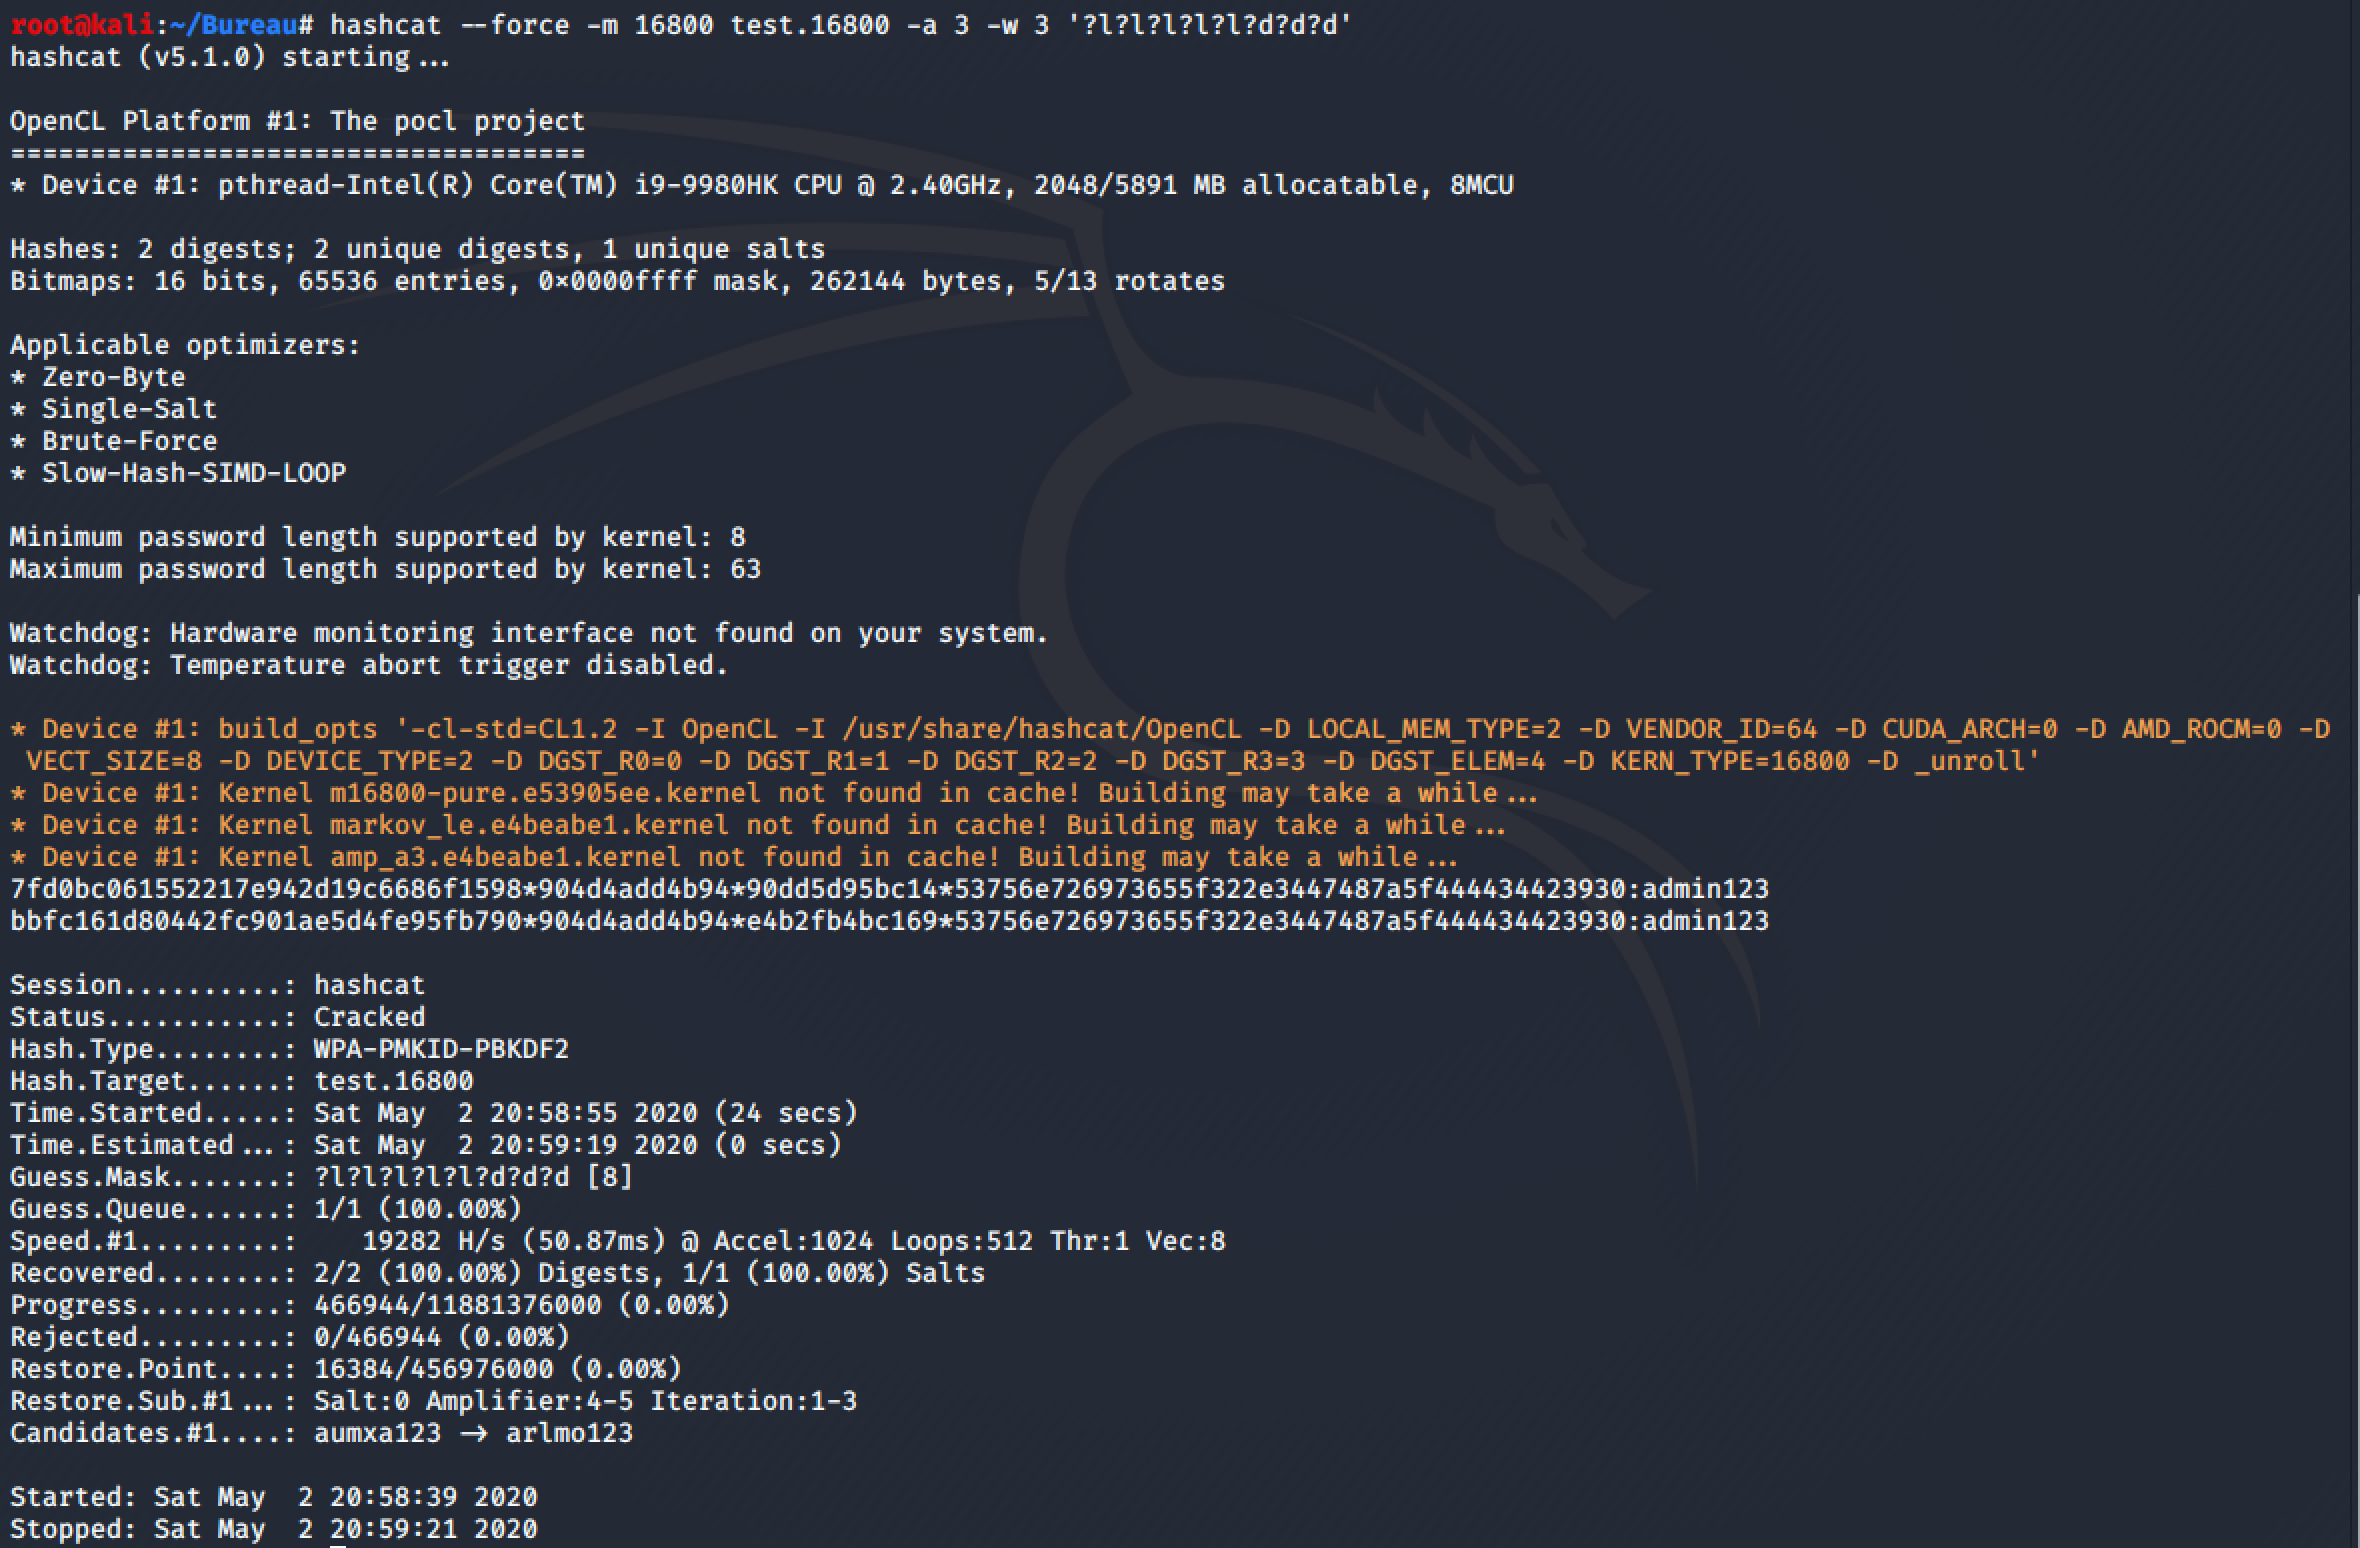
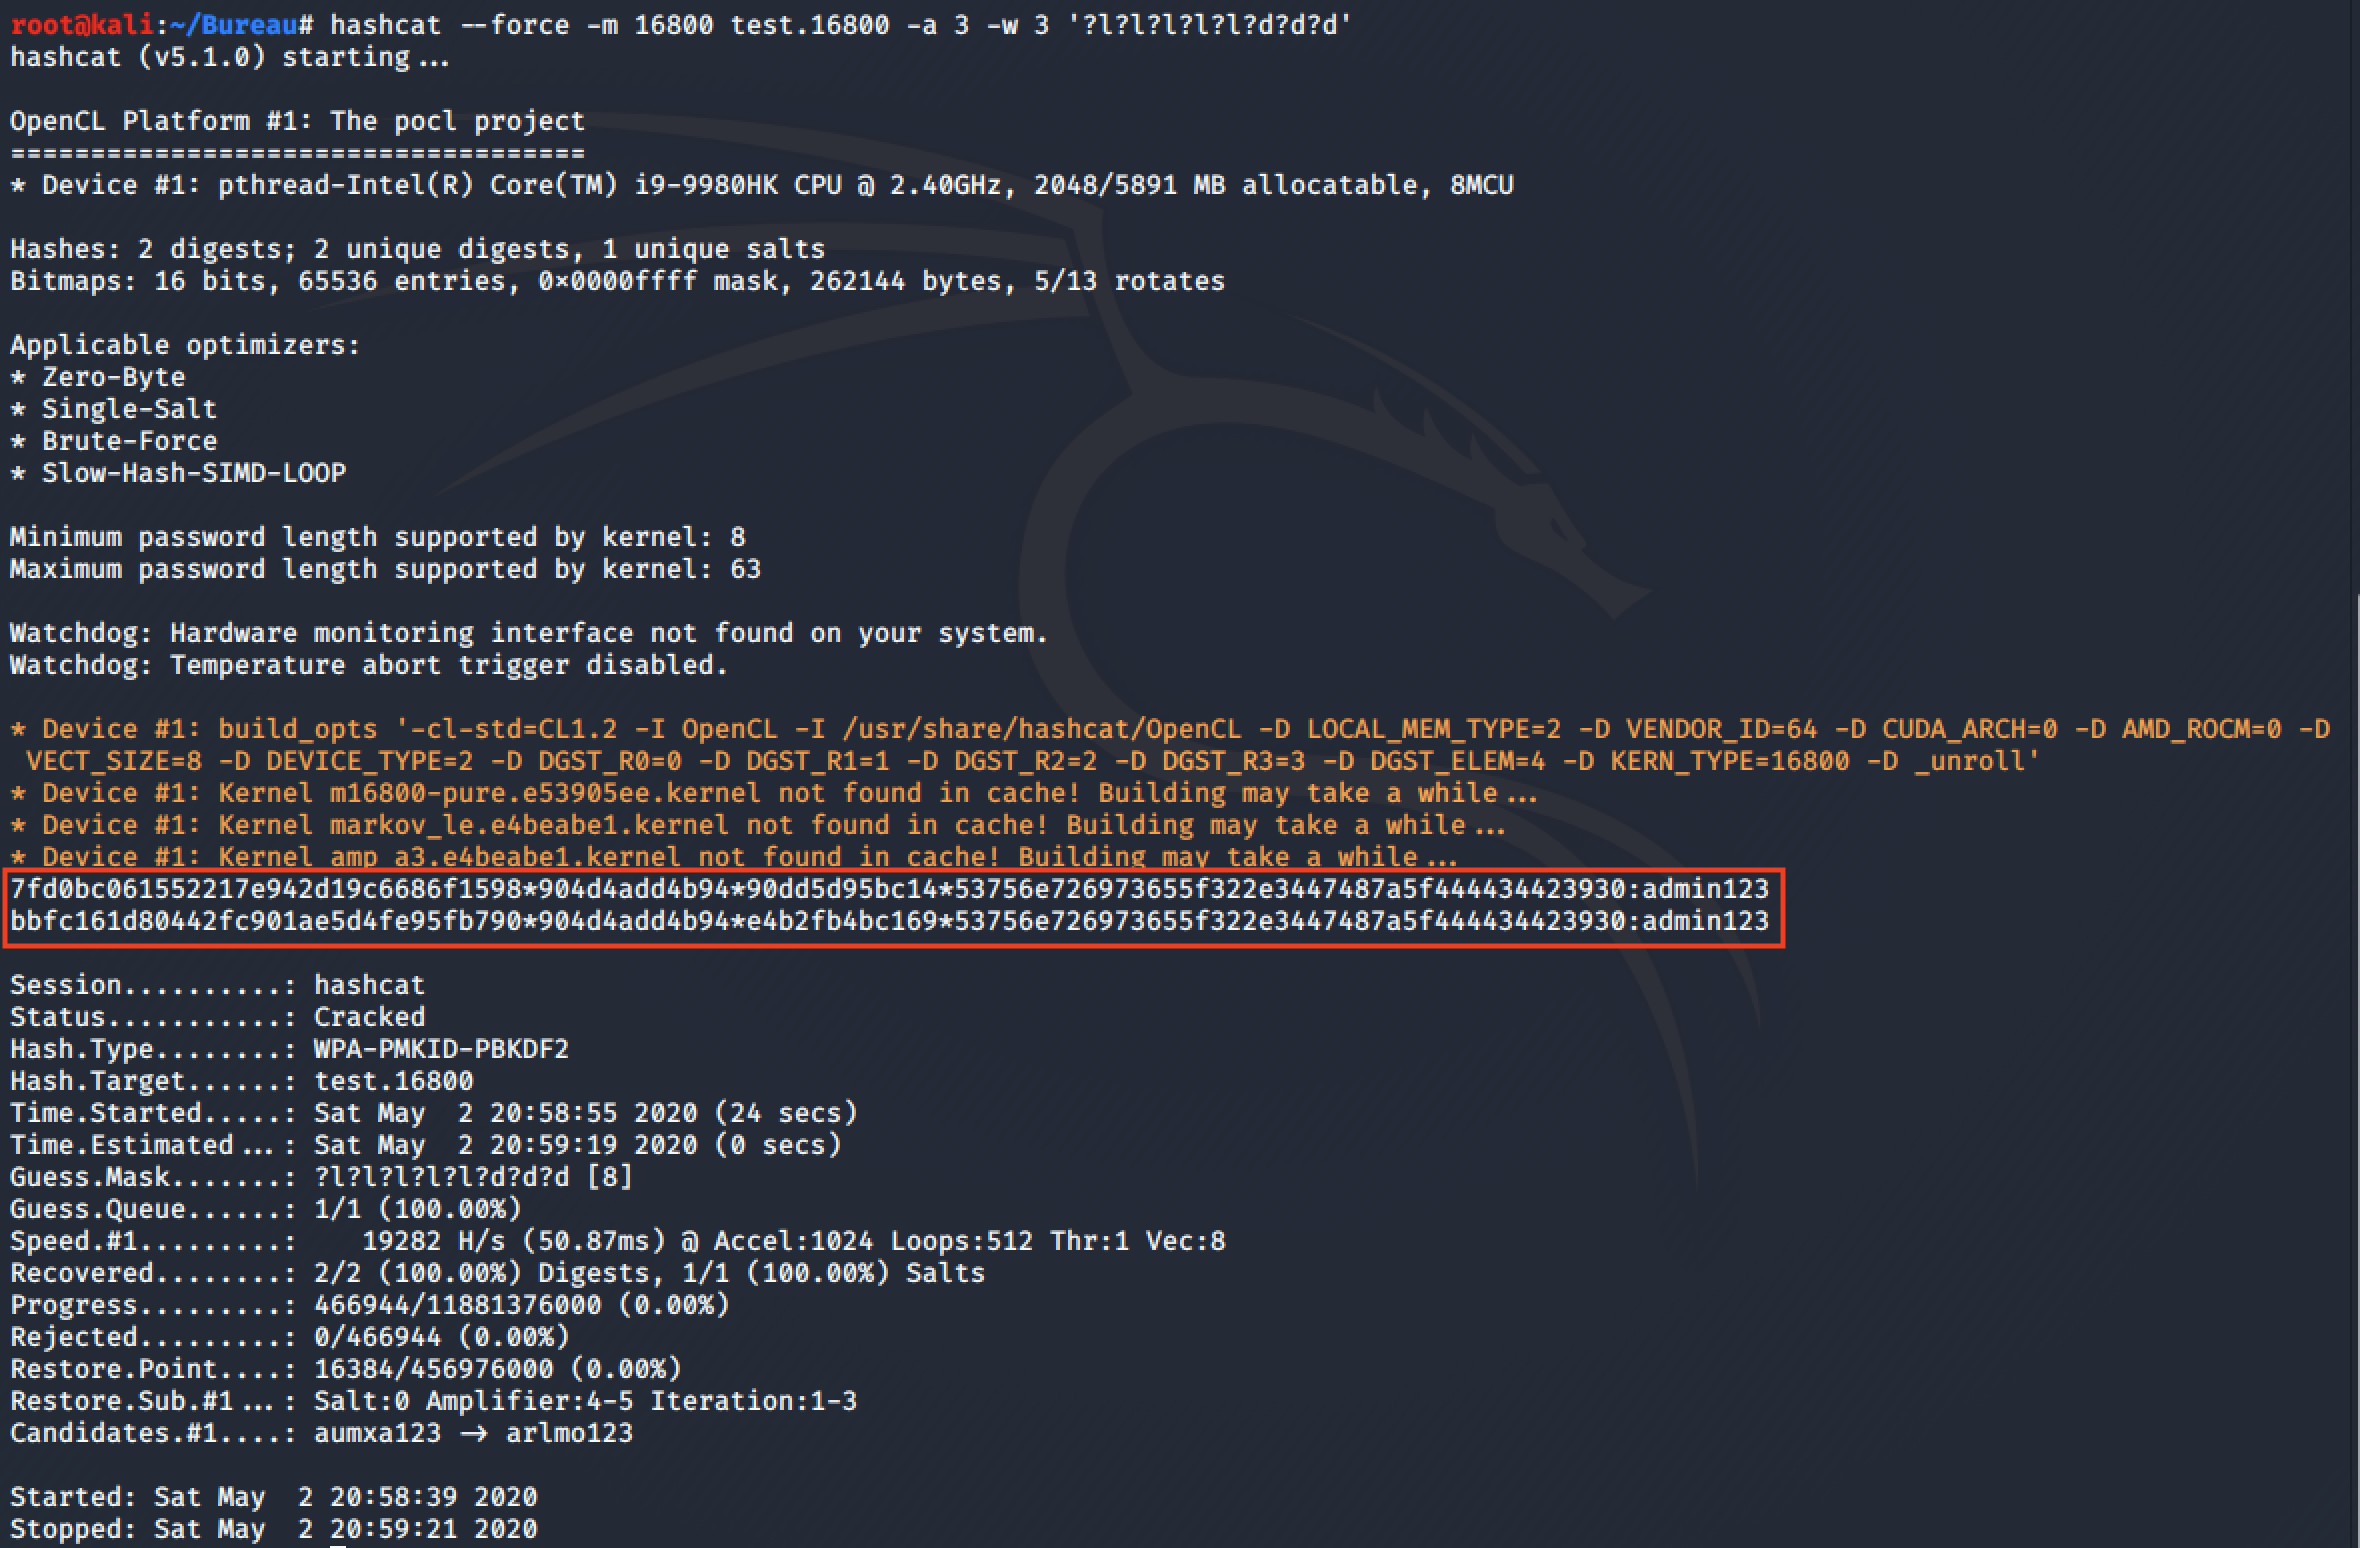
exo 3 ok

Changed region(s): [[0.0, 0.5581, 0.7733, 0.6202], [0.0309, 0.0, 0.0619, 0.031]]

diff --git a/README.md b/README.md
@@ -42,7 +42,7 @@ L'attaque PMKID est une attaque par dictionnaire qui calcule systématiquement u
 
 Utilisant votre script précédent, le modifier pour réaliser les taches suivantes :
 
-- Lire une passphrase à partir d’un fichier (wordlist) &rarr; __La passphrase utilisée dans la capture es ```admin123```__
+- Lire une passphrase à partir d’un fichier (wordlist) &rarr; __La passphrase utilisée dans la capture est ```admin123```__
 - Dériver la PMK à partir de la passphrase que vous venez de lire et des autres éléments nécessaires contenus dans la capture (cf [exercice 1](#1-obtention-de-la-pmkid-et-des-paramètres-pour-la-dérivation-de-la-pmk))
 - Calculer la PMKID (cf vidéo YouTube)
 - Comparer la PMKID calculée avec celle récupérée de la capture :
@@ -54,6 +54,21 @@ Utilisant votre script précédent, le modifier pour réaliser les taches suivan
 
 A manière de comparaison, réaliser l'attaque sur le [fichier de capture](files/PMKID_handshake.pcap) utilisant la méthode décrite [ici](https://hashcat.net/forum/thread-7717.html).
 
+En suivant le tutoriel, il faut donc premièrement exécuter la ligne suivante:
+
+```hcxpcaptool -z test.16800 test.pcapng```
+
+<img src="images/e3_p1.png"  style="zoom:40%;" />
+
+On constate, dans le rectangle rouge, que nous avons trouvé 2 PMKID.
+
+Il reste ensuite à trouver la passphrase avec la commande suivante, on modifie juste le guess mask : 
+
+```hashcat -m 16800 test.16800 -a 3 -w 3 '?l?l?l?l?l?d?d?d'```
+
+<img src="images/e3_p2.png"  style="zoom:40%;" />
+
+On trouve très rapidement *admin123* bien que le materiel ne soit pas dédié. Cela vient du fait que le guess mask est correct et que par bruteforce, admin123 est très facilement trouvable. 
 
 ## Livrables
 
